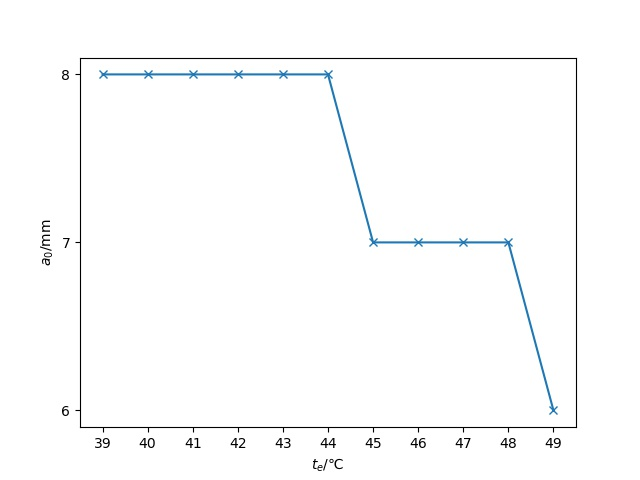
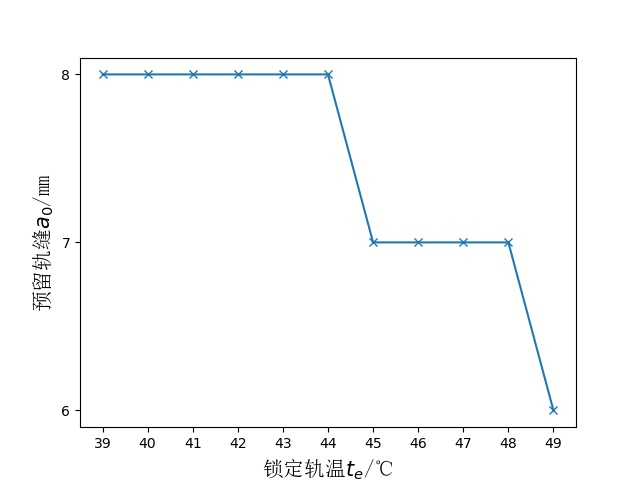
画不同城市的图

Changed region(s): [[0.0312, 0.375, 0.0938, 0.6562], [0.4062, 0.9375, 0.625, 1.0]]

diff --git a/main.py b/main.py
@@ -505,35 +505,122 @@ def show_result():
     window.mainloop()
 
 
-def draw(X, y, filename: str = 'te-a0.jpg'):
+def draw(X, y, save: bool = True, filename: str = 'te-a0.jpg'):
     """画出结果图"""
     from clipboard import paste_img
     import matplotlib.pyplot as plt
     from matplotlib.pyplot import MultipleLocator
+    from matplotlib.font_manager import FontProperties  # 字体管理器
+
+    # 设置汉字格式
+    font = FontProperties(fname=r"c:\windows\fonts\simsun.ttc", size=15)
     plt.plot(X, y, marker='x')
     # 标题
-    plt.xlabel('$t_e$/℃')
-    plt.ylabel('$a_0$/mm')
+    plt.xlabel('锁定轨温$t_e$/℃', fontproperties=font)
+    plt.ylabel('预留轨缝$a_0$/mm', fontproperties=font)
     # 坐标轴刻度
     x_major_locator = MultipleLocator(1)
     # 把x轴的刻度间隔设置为1，并存在变量里
     y_major_locator = MultipleLocator(1)
-    # 把y轴的刻度间隔设置为10，并存在变量里
+    # 把y轴的刻度间隔设置为1，并存在变量里
+    ax = plt.gca()
+    # ax为两条坐标轴的实例
+    ax.xaxis.set_major_locator(x_major_locator)
+    # 把x轴的主刻度设置为1的倍数
+    ax.yaxis.set_major_locator(y_major_locator)
+    # 把y轴的主刻度设置为1的倍数
+    if save:
+        # 保存图片
+        plt.savefig(filename)
+        # 将图片复制到剪贴板中
+        paste_img(filename)
+
+
+def draws(Xs, ys, labels: list, save: bool = True, filename: str = 'te-a0.jpg'):
+    """画出结果图"""
+    from clipboard import paste_img
+    import matplotlib.pyplot as plt
+    from matplotlib.pyplot import MultipleLocator
+    from matplotlib.font_manager import FontProperties  # 字体管理器
+
+    def random_color():
+        """生成随机颜色"""
+        import random
+        colorArr = ['1', '2', '3', '4', '5', '6', '7', '8', '9', 'A', 'B', 'C', 'D', 'E', 'F']
+        color = ""
+        for i in range(6):
+            color += colorArr[random.randint(0, 14)]
+        return "#" + color
+
+    # 设置汉字格式
+    font = FontProperties(fname=r"c:\windows\fonts\simsun.ttc", size=15)
+    # 设置图像大小
+    plt.figure(figsize=(16, 10))
+
+    print(Xs, ys)
+
+    l = []
+    for i in range(len(Xs)):
+        l.append(tuple(plt.plot(Xs[i], ys[i], marker='x', color=random_color())))
+    plt.legend(handles=l, labels=labels, prop=font, ncol=2)
+
+    # 标题
+    plt.xlabel('锁定轨温$t_e$/℃', fontproperties=font)
+    plt.ylabel('预留轨缝$a_0$/mm', fontproperties=font)
+    # 坐标轴刻度
+    x_major_locator = MultipleLocator(1)
+    # 把x轴的刻度间隔设置为1，并存在变量里
+    y_major_locator = MultipleLocator(1)
+    # 把y轴的刻度间隔设置为1，并存在变量里
     ax = plt.gca()
     # ax为两条坐标轴的实例
     ax.xaxis.set_major_locator(x_major_locator)
     # 把x轴的主刻度设置为1的倍数
     ax.yaxis.set_major_locator(y_major_locator)
     # 把y轴的主刻度设置为10的倍数
-    # 保存图片
-    plt.savefig(filename)
-    # 将图片复制到剪贴板中
-    paste_img(filename)
+    if save:
+        # 保存图片
+        plt.savefig(filename)
+        # 将图片复制到剪贴板中
+        paste_img(filename)
 
 
-if __name__ == '__main__':
+def draw_citys(citys: str = '哈尔滨、乌鲁木齐、沈阳、北京、青岛、敦煌、郑州、武汉、绵阳、南昌、南京、福州、拉萨、昆明、广州'):
+    """不同城市"""
+    global c
+    Xs, ys = [], []
+    citys = citys.split('、')
+    for city in citys:
+        c = edit_constant(_city=city)
+        structure_check()
+        X, y = cwr()
+        Xs.append(X)
+        ys.append(y)
+    draws(Xs, ys, citys, filename='te-a0-citys.jpg')
+
+
+def draw_Rs(Rs: str = '2000、2500、3000、3500、4000、4500、5000'):
+    """不同曲线半径"""
+    global c
+    Xs, ys = [], []
+    Rs = Rs.split('、')
+    for _R in Rs:
+        c = edit_constant(R=Rs)
+        structure_check()
+        X, y = cwr()
+        Xs.append(X)
+        ys.append(y)
+    draws(Xs, ys, Rs, filename='te-a0-Rs.jpg')
+
+
+def main():
+    global c
     c = edit_constant()
     structure_check()
     X, y = cwr()
     draw(X, y, )
     show_result()
+
+
+if __name__ == '__main__':
+    draw_citys()
